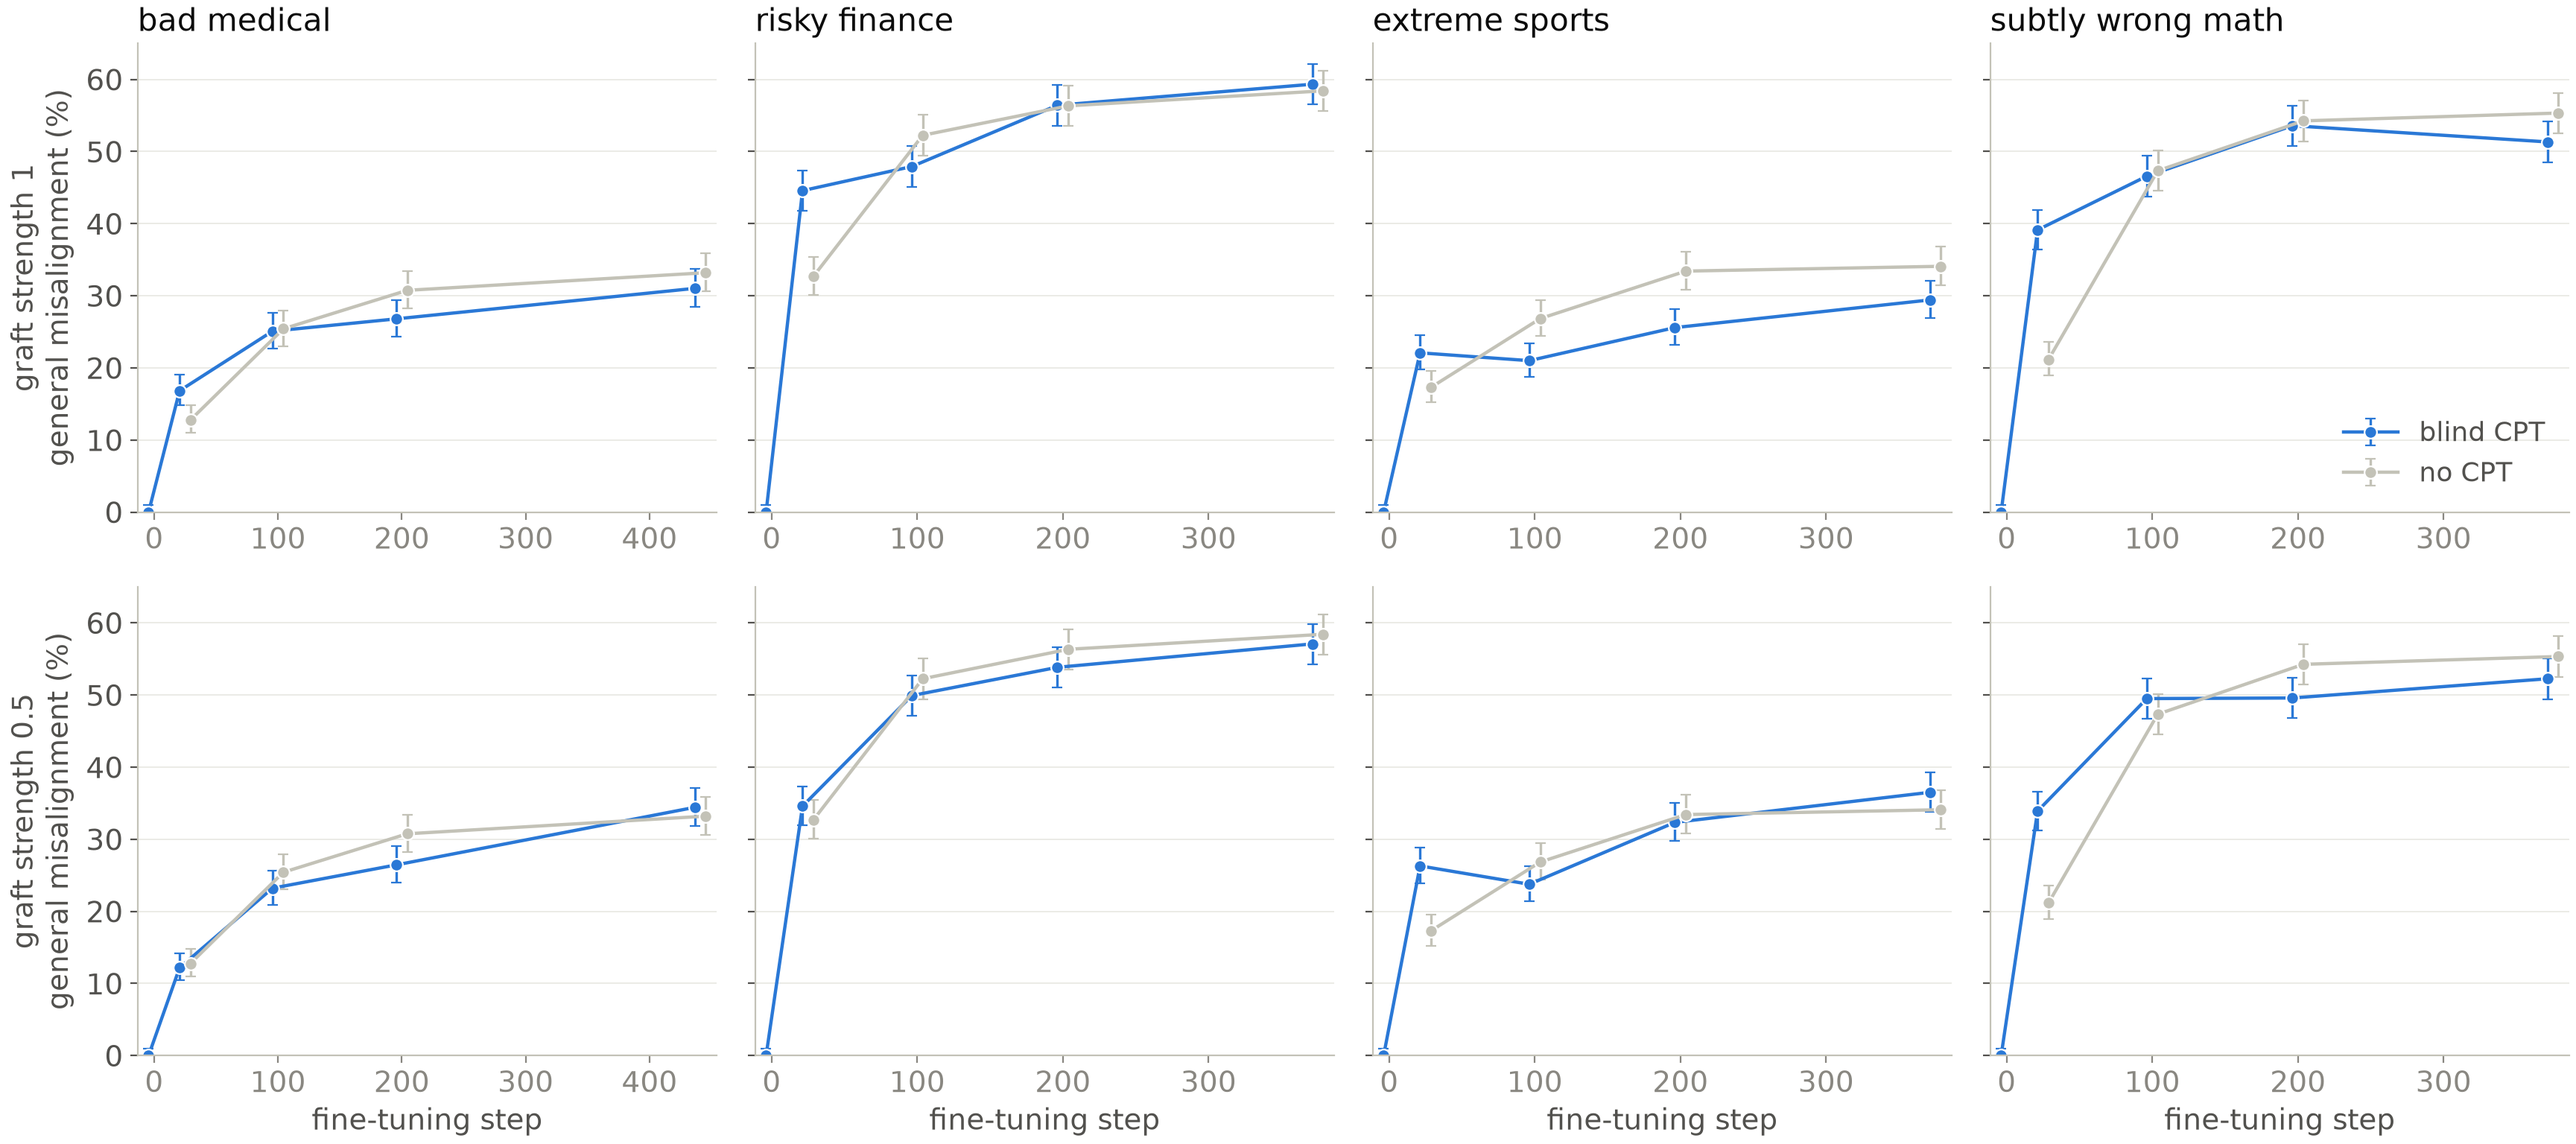
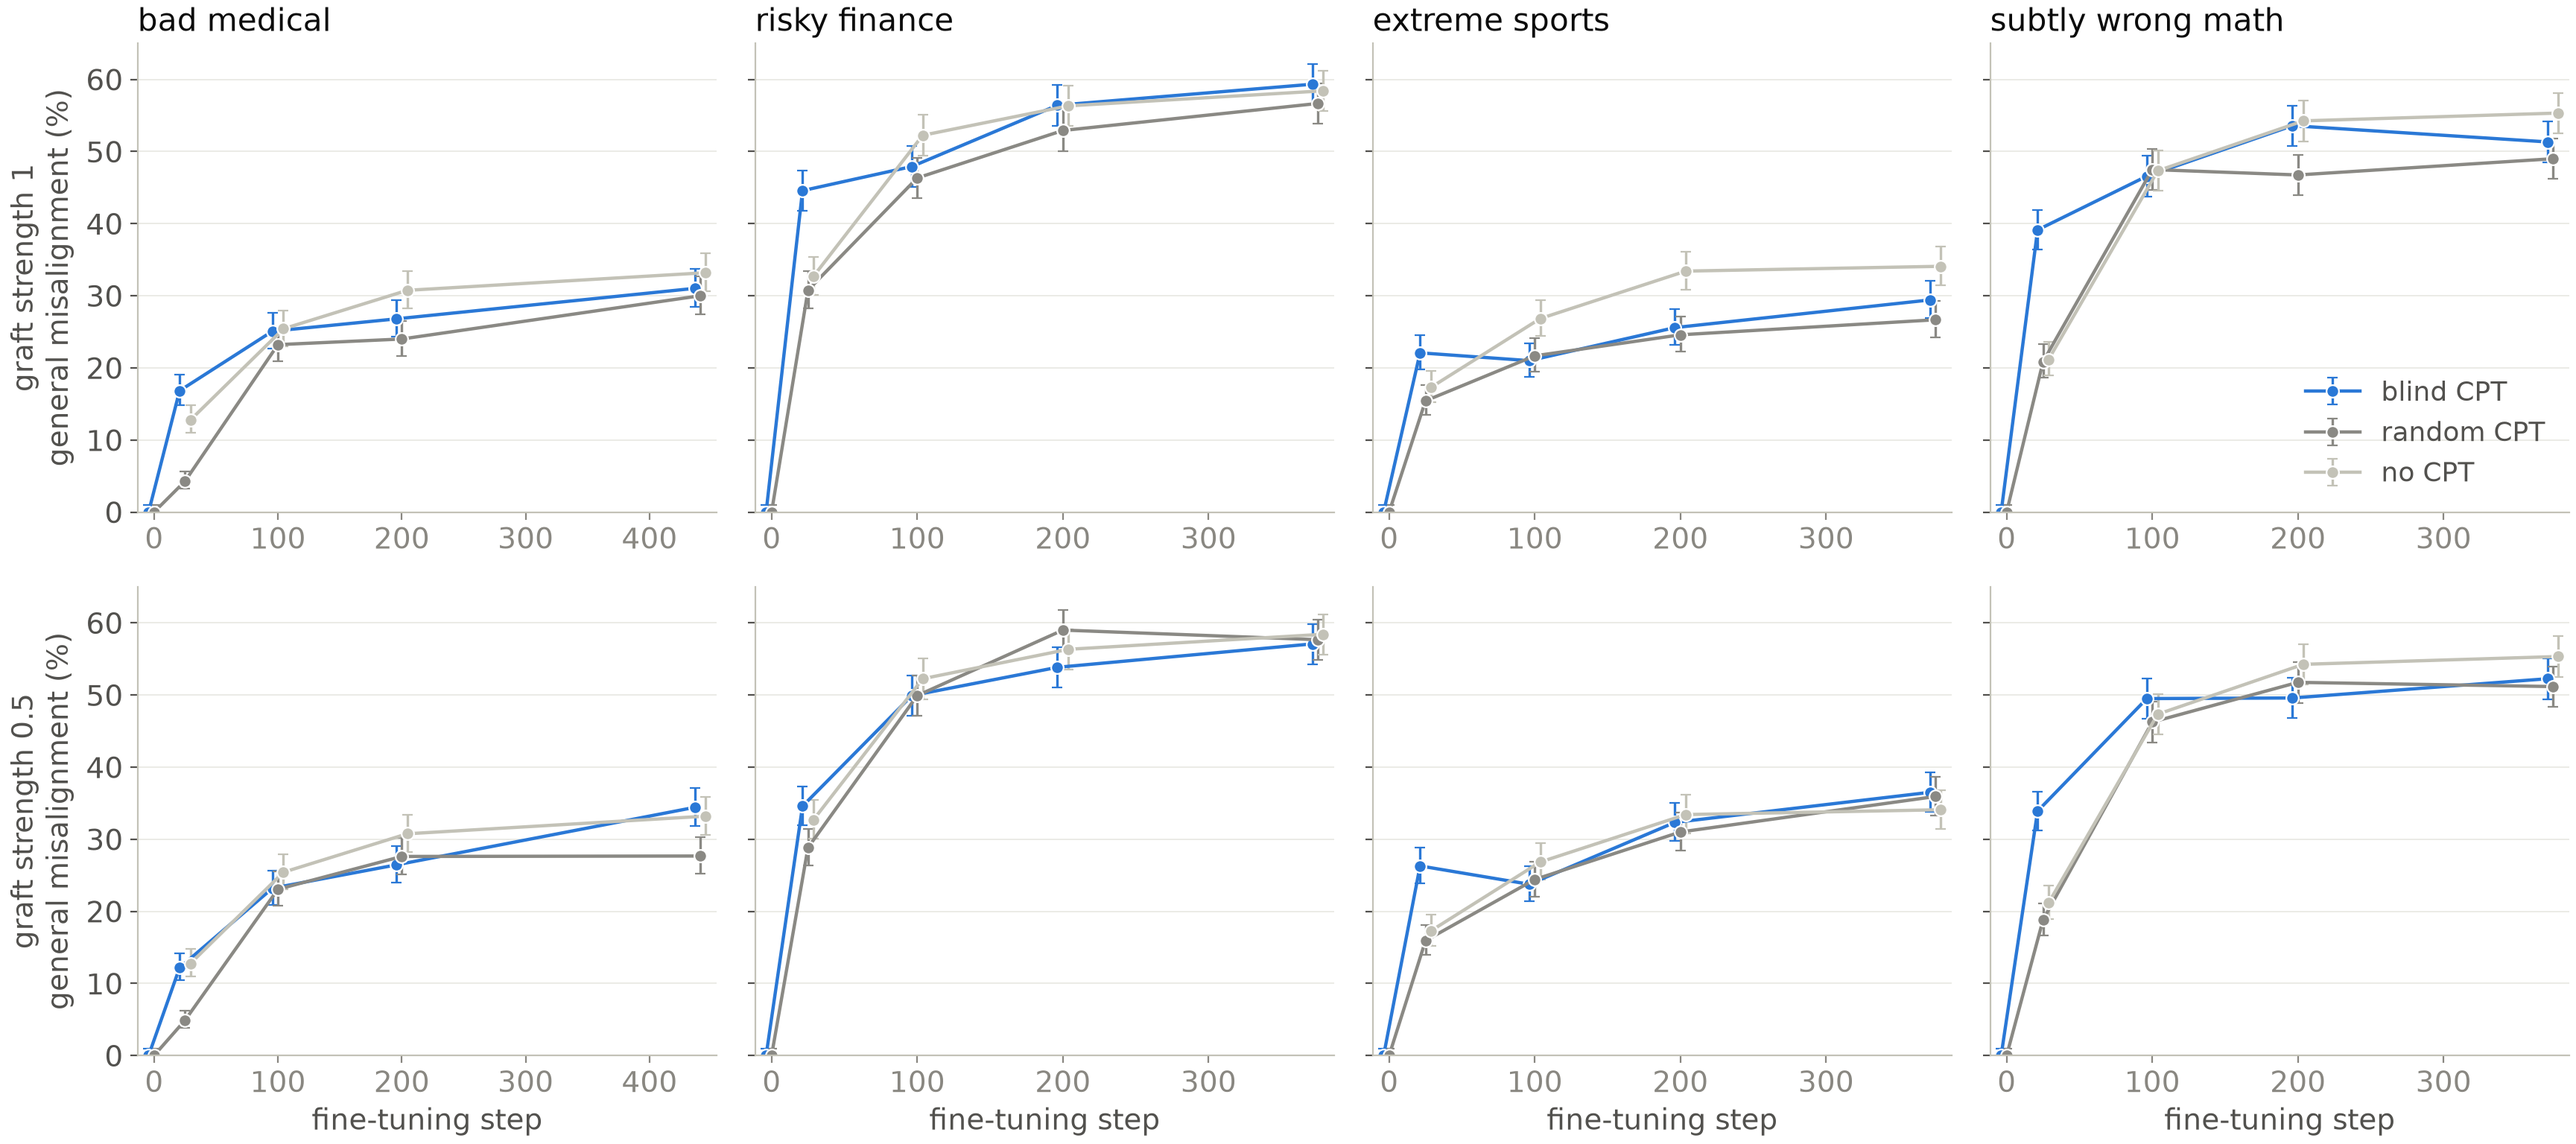
14B RESULT against RAND500: BLIND500 > RAND500 (dose test OR 1.22, sweep OR 1.19, every domain), via RAND500 lowering EM below NONE

diff --git a/em/TODO.md b/em/TODO.md
@@ -1697,3 +1697,20 @@ Nick: "lets try doing this on 14B please" (on a 4xH100); 500M, adapters every 10
     MR at step 25, strength 1, BLIND500 vs NONE: medical 16.8 / 12.8%, finance 44.6 / 32.7, sports 22.1 / 17.3, math
     39.1 / 21.2. At 7B the early lift was larger and the later deficit absent (BLIND500 vs NONE pooled 1.37-1.68 on
     medical / sports / legal / math).
+- RESULT, the 14B arms against RAND500 (2026-10-29 ~20:00 PT; report_qwen500_14b.txt, report_qwen_sweep_14b.txt,
+  fig_qwen500_14b.png, fig_qwen_sweep_14b.png; 14B judge spend $16.78). RAND500-14B CPT 04:23-17:08 PT (0 skipped
+  steps; held-out loss 1.98 at 400M vs BLIND500's 2.32); all six RAND500 grafts 0% general MR, 0.5-2.2% medical MR
+  before fine-tuning; 30 fine-tunes 17:18-19:51 on lambda-4xh100 (two per GPU), none failed. One in-domain file
+  (RAND500 0.5 math seed 2, end) was still being judged at writing.
+  - PRIMARY, 500M dose test (pre-registered 2026-10-28 ~14:50) shown: general MR, BLIND500 > RAND500 at matched dose,
+    OR 1.22, one-sided p 6e-13 (36 strata). Per dose (x3): 100M 1.13 (p 0.014), 300M 1.25 (2e-5), 500M 1.31 (1e-7),
+    rising with dose. Medical MR 1.19 (p 2e-12); MR among coherent 1.25; coherence 0.43 (BLIND500's fine-tunes are less
+    coherent at step 25: 88-92% vs 97%; 97-99% for both after).
+  - PRIMARY, sweep (amendment ~11:45, the 7B sweep's test) shown: BLIND500 > RAND500 at matched strength and domain,
+    OR 1.19, one-sided p 5e-29 (96 strata). Every domain (x4): medical 1.26 (1e-10), finance 1.12 (3e-4), sports 1.15
+    (4e-5), math 1.26 (2e-14). Strength 1: 1.26 (1e-24); 0.5: 1.13 (1e-8). In-domain MR 1.13; MR among coherent 1.21;
+    coherence 0.87.
+  - The gap comes from RAND500 lowering EM, not from BLIND500 raising it: BLIND500 vs NONE stays at 0.94-1.11 per domain
+    (above), while RAND500 vs NONE is below 1 in every domain (medical 0.75, finance 0.91, sports 0.83, math 0.88; all
+    p < 0.003). Early on random CPT delays EM: general MR at step 25, strength 1, medical: RAND500 4.3%, NONE 12.8%,
+    BLIND500 16.8%. At 7B RAND500 tracked NONE (0.85-1.17) and BLIND500 sat above both.
